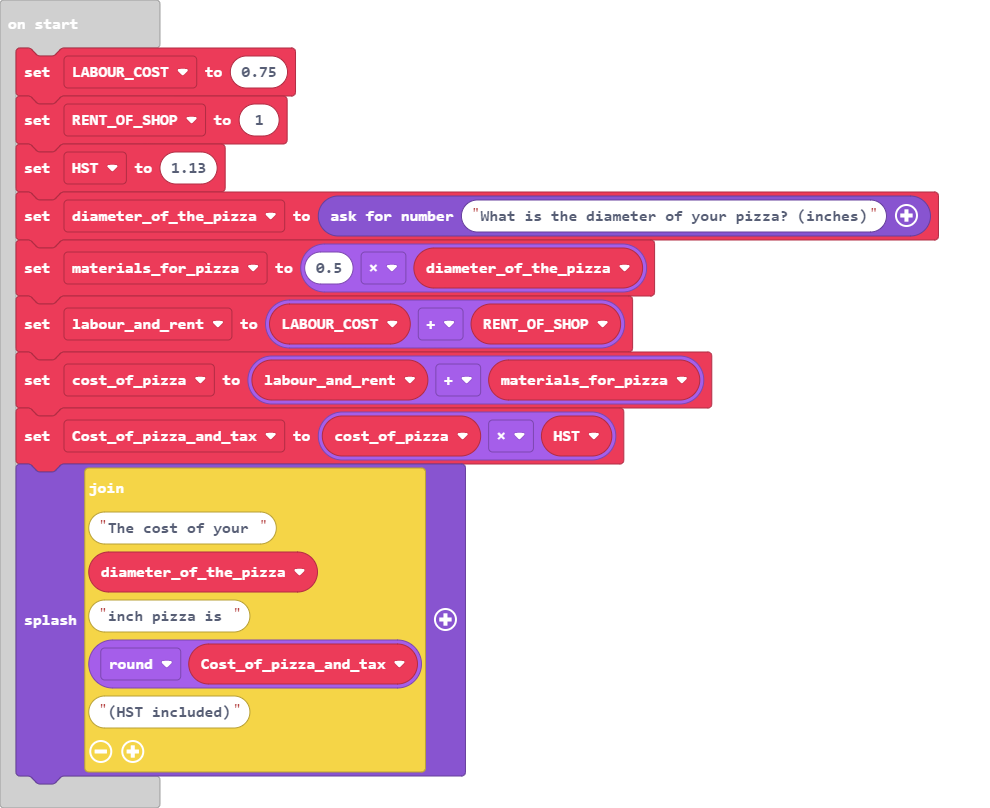
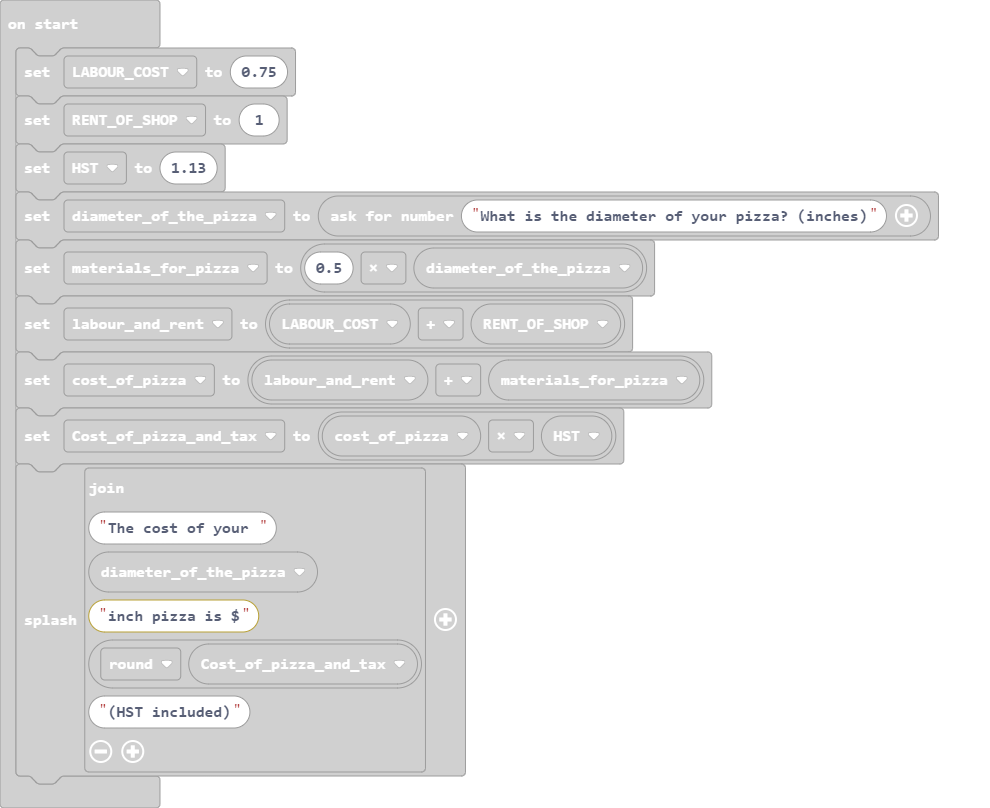
Update main.blocks, main.ts

diff --git a/main.ts b/main.ts
@@ -6,4 +6,4 @@ let materials_for_pizza = 0.5 * diameter_of_the_pizza
 let labour_and_rent = LABOUR_COST + RENT_OF_SHOP
 let cost_of_pizza = labour_and_rent + materials_for_pizza
 let Cost_of_pizza_and_tax = cost_of_pizza * HST
-game.splash("The cost of your " + diameter_of_the_pizza + "inch pizza is " + Math.round(Cost_of_pizza_and_tax) + "(HST included)")
+game.splash("The cost of your " + diameter_of_the_pizza + "inch pizza is $" + Math.round(Cost_of_pizza_and_tax) + "(HST included)")
